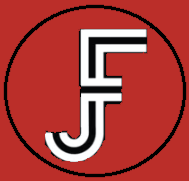
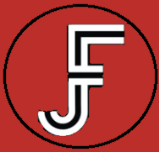
set main image

diff --git a/front-end/src/views/main/components/footer/AppFooter.style.scss b/front-end/src/views/main/components/footer/AppFooter.style.scss
@@ -22,7 +22,7 @@ body {
 
 //monogramma ad effetto girandola
 .footer-logo {
-  width: 7%;
+  width: 6%;
   transition: transform 0.5s ease;
 }
 
